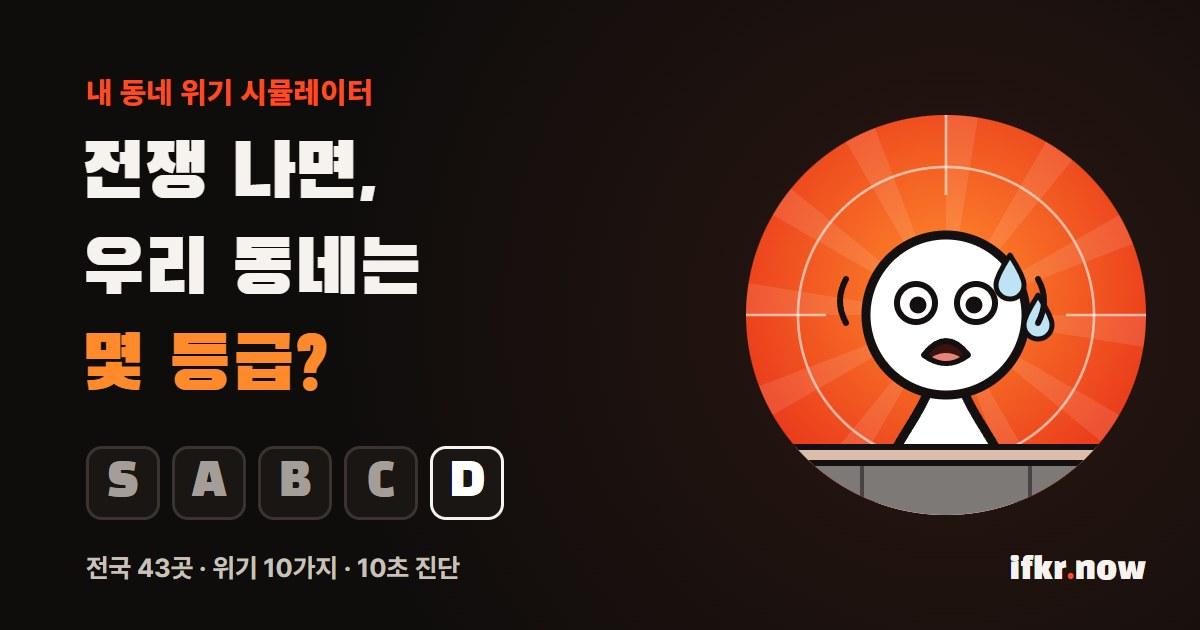
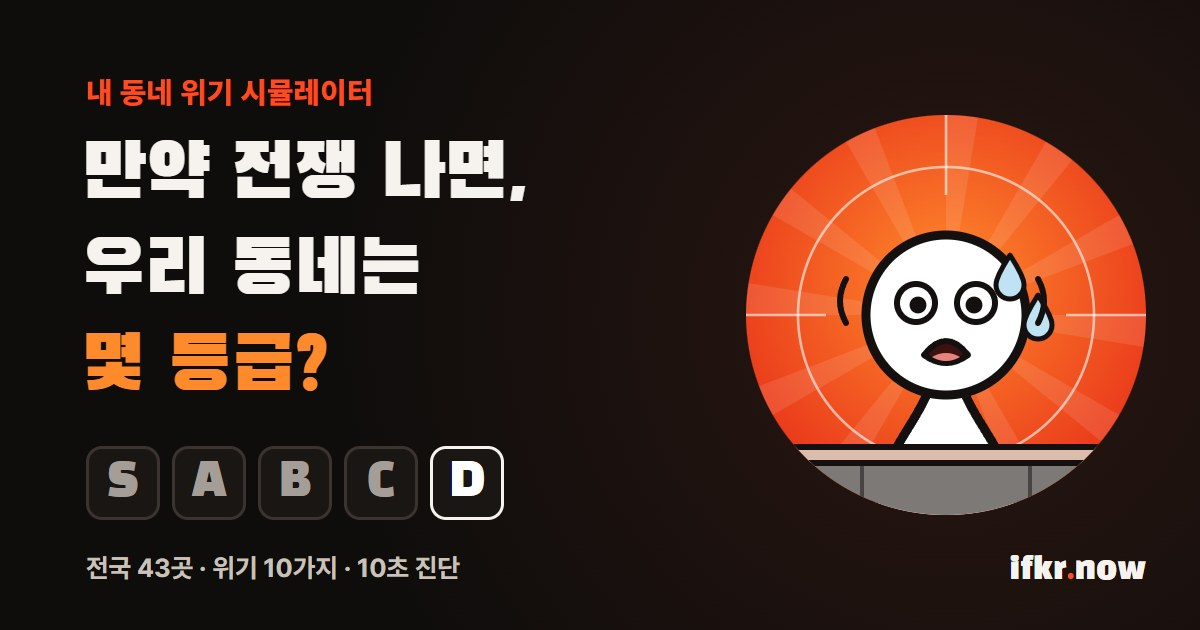
멘트를 「만약 ○○이라면」 가정형으로, 공유 이미지 제목 「만약 전쟁 나면」

Changed region(s): [[0.0617, 0.2111, 0.4317, 0.3317]]

diff --git a/index.html b/index.html
@@ -5,17 +5,17 @@
 <meta name="viewport" content="width=device-width,initial-scale=1,viewport-fit=cover">
 <title>내 동네 위기 시뮬레이터 · ifkr.now</title>
 <meta name="description" content="사는 곳·위기·가구·층수 4가지만 고르면 10초 안에 동네 위기 등급(S~D)과 대피소·생존 물품까지">
-<meta property="og:title" content="내 동네는 몇 등급? 위기 시뮬레이터">
+<meta property="og:title" content="만약 전쟁 나면, 우리 동네는 몇 등급?">
 <meta property="og:description" content="전쟁·폭격·정전·지진·독가스, 우리 집은 버틸 수 있을까? 전국 43곳 10초 진단">
 <meta property="og:type" content="website">
 <meta property="og:url" content="https://ifkrnow.github.io/">
-<meta property="og:image" content="https://ifkrnow.github.io/og.jpg">
+<meta property="og:image" content="https://ifkrnow.github.io/og.jpg?v=2">
 <meta property="og:image:width" content="1200">
 <meta property="og:image:height" content="630">
-<meta property="og:image:alt" content="전쟁 나면, 우리 동네는 몇 등급? 내 동네 위기 시뮬레이터">
+<meta property="og:image:alt" content="만약 전쟁 나면, 우리 동네는 몇 등급? 내 동네 위기 시뮬레이터">
 <meta property="og:site_name" content="ifkr.now">
 <meta name="twitter:card" content="summary_large_image">
-<meta name="twitter:image" content="https://ifkrnow.github.io/og.jpg">
+<meta name="twitter:image" content="https://ifkrnow.github.io/og.jpg?v=2">
 <!-- GA4: ifkr.now 위기 시뮬레이터 -->
 <script async src="https://www.googletagmanager.com/gtag/js?id=G-S9VCF1ZB19"></script>
 <script>window.dataLayer=window.dataLayer||[];function gtag(){dataLayer.push(arguments)}gtag('js',new Date());gtag('config','G-S9VCF1ZB19');</script>
@@ -556,7 +556,10 @@ const INSIGHT = {
 };
 const MILC = new Set(['war','apt','gas']); // 군사형 해설을 쓰는 위기
 // 원전·지진·해일·산불·감염병은 군사/생활 해설이 안 맞아서 그 위기 전용 지역 문장을 쓴다
-const insightOf = (r,c) => MILC.has(c)?INSIGHT[r][0]:c==='out'?INSIGHT[r][1]:noteOf(r,c);
+// 멘트는 모두 가정으로: 「만약 ○○이라면,」으로 시작 (11/16 사용자 — 예측처럼 들리지 않게)
+const IFW={war:'공습이라면',apt:'폭격이라면',out:'정전이라면',quake:'지진이라면',gas:'독가스라면',nuke:'원전 사고라면',tsu:'해일이라면',fire:'산불이라면',pand:'감염병이라면',cyber:'통신 마비라면'};
+const baseInsight = (r,c) => MILC.has(c)?INSIGHT[r][0]:noteOf(r,c); // 정전은 지역 정전 문장(NOTE)이 「만약 정전이라면」 뒤에 자연스러움
+const insightOf = (r,c) => `만약 ${IFW[c]}, ${baseInsight(r,c)}`;
 const GROUP = {수도권:['서울','인천','수원','성남','고양','부천','안산','의정부','김포','파주','동두천','연천','평택','안성'],
   충청:['대전','세종','청주','천안','논산'], 호남:['광주','전주','군산','순천','여수','목포','진도'],
   영남:['부산','대구','울산','창원','진해','김해','거제','포항','경주'], '강원·제주·섬':['춘천','원주','강릉','영월','철원','양구','제주','울릉도']};
@@ -899,7 +902,7 @@ renderBar();updateCTA();document.querySelector('footer').hidden=true;
 function analysis(){
   const c=CRISIS[S.c];
   const fa=c.fl[S.f];
-  return [noteOf(S.r,S.c)===insightOf(S.r,S.c)?null:noteOf(S.r,S.c),
+  return [noteOf(S.r,S.c)===baseInsight(S.r,S.c)?null:noteOf(S.r,S.c),
     `${FLOOR[S.f]} ${fa>0?'+':fa<0?'−':'±'}${Math.abs(fa)}점. ${c.ft}`, `${HOME[S.h].line} ${c.hint}`];
 }
 
@@ -1001,9 +1004,11 @@ async function drawCard(sc,g){
   // 왜 이 등급? — 양면 해설(최대 3줄) → 불리한 점 2 → 버티는 점 2 → 주요 시설·층·가구
   x.font=`400 46px ${D}`;x.fillStyle=fg;x.fillText(`왜 ${g}등급?`,L,1026);
   const wrap=(t,maxW)=>{const out=[];let line='';for(const w of t.split(' ')){const s=line?line+' '+w:w;if(x.measureText(s).width>maxW&&line){out.push(line);line=w}else line=s}if(line)out.push(line);return out.slice(0,3)};
-  x.font=`700 37px ${F}`;const ins=wrap(insightOf(S.r,S.c),RX-L-26);
-  x.fillStyle=brand;x.fillRect(L,1052,6,ins.length*52+4);x.fillStyle=fg;ins.forEach((l,i)=>x.fillText(l,L+26,1090+i*52));
-  let y=1090+(ins.length-1)*52+74;const KW=170;
+  // 「만약 ○○이라면,」이 붙어 길어진 해설이 3줄이 되면 글자를 줄여 2줄로 (카드 아래가 스토리 버튼에 가리지 않게)
+  let fs=37;x.font=`700 ${fs}px ${F}`;let ins=wrap(insightOf(S.r,S.c),RX-L-26);
+  while(ins.length>2&&fs>31){fs-=2;x.font=`700 ${fs}px ${F}`;ins=wrap(insightOf(S.r,S.c),RX-L-26)}
+  const lh=Math.round(fs*1.4);x.fillStyle=brand;x.fillRect(L,1052,6,ins.length*lh+4);x.fillStyle=fg;ins.forEach((l,i)=>x.fillText(l,L+26,1090+i*lh));
+  let y=1090+(ins.length-1)*lh+74;const KW=170;
   const [bad,good]=whyOf();
   const group=(label,col,items)=>{items.slice(0,2).forEach((t,i)=>{if(!i){x.font=`800 34px ${F}`;x.fillStyle=col;x.fillText(label,L,y)}
     x.font=`700 36px ${F}`;x.fillStyle=fg;x.fillText(fit(t,RX-L-KW),L+KW,y);y+=52});if(items.length)y+=16};
